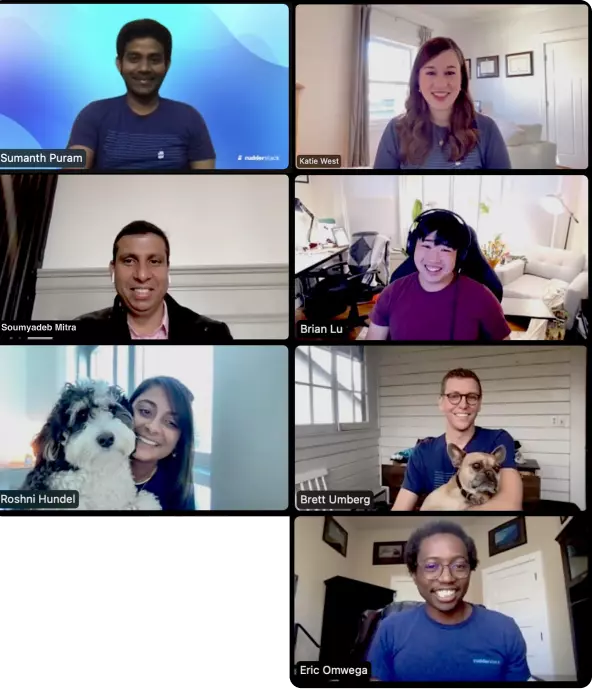
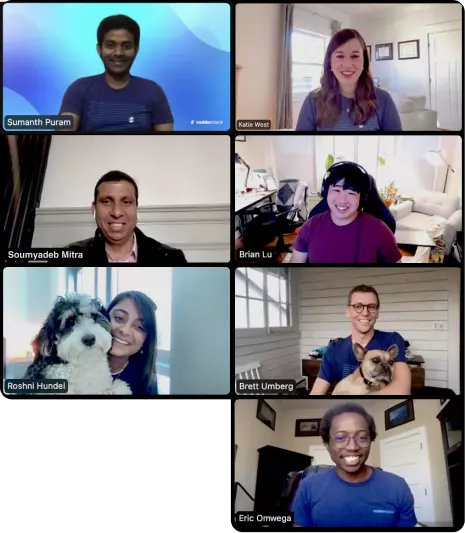
Updated leadership struture

diff --git a/src/components/leadership.js b/src/components/leadership.js
@@ -6,10 +6,11 @@ import '../css/about.css'
 const Leadership = props => {
   return (
     <section className="leadership relative pt-32 pb-16">
-      <div className="flex relative flex-col-reverse lg:flex-row">
+      <div className="max-w-6xl mx-auto leadership-wrapper">
+      <div className="flex relative flex-col-reverse lg:flex-row justify-between">
         <div className="left-group-image">
           <StaticImage
-            src="../images/leadership-group1.webp"
+            src="../images/leadership-group1.png"
             alt="leadership-group1"
           />
         </div>
@@ -26,9 +27,9 @@ const Leadership = props => {
           </div>
         </div>
       </div>
-      <div className="flex xl:-mt-60 justify-center lg:justify-end leadership-img-block lg:ml-auto lg:mr-0 mx-auto">
+      <div className="flex lg:-mt-60 justify-center lg:justify-end leadership-img-block lg:ml-auto lg:mr-0 mx-auto">
         <StaticImage
-          src="../images/leadership-group2.webp"
+          src="../images/leadership-group2.png"
           alt="leadership-investors"
         />
       </div>
@@ -40,13 +41,13 @@ const Leadership = props => {
           </div>
         </div>
         <div className="middle-right-images relative flex justify-end flex-col  lg:flex-row">
-          <div className="middle-right-image-wrapper mr-3 lg:mb-0 mb-3">
+          <div className="middle-right-image-wrapper middle-right-left mr-3 lg:mb-0 mb-3">
             <StaticImage
               src="../images/leadership-group3.webp"
               alt="leadership-investors"
             />
           </div>
-          <div className="middle-right-image-wrapper lg:mb-0 mb-3">
+          <div className="middle-right-image-wrapper middle-right-right lg:mb-0 mb-3">
             <StaticImage
               src="../images/leadership-group4.webp"
               alt="leadership-investors"
@@ -55,12 +56,13 @@ const Leadership = props => {
         </div>
       </div>
       <div className="flex justify-center lg:justify-end">
-        <div className="bottom-image-wrapper xl:-mt-36 leadership-img-block">
+        <div className="bottom-image-wrapper leadership-img-block">
           <StaticImage
             src="../images/leadership-group5.webp"
             alt="leadership-investors"
           />
         </div>
+      </div>
       </div>
     </section>
   )

diff --git a/src/css/about.css b/src/css/about.css
@@ -1,18 +1,22 @@
-/* .left-group-image{
-    position: absolute;
-    left: 0px;
-} */
-.right-side-content{
-    margin-left: calc((100% - 1152px)/2);
-}
-.leadership-img-block{
+.left-group-image{
     max-width: 50%;
 }
+/* .leadership-img-block{
+    max-width: 50%;
+} */
 .middle-content{
     margin-left: calc((100% - 1152px)/2);
 }
 .bottom-image-wrapper{
-    margin-right: 380px;
+    margin-right: 305px;
+    margin-top: -120px;
+    max-width: 450px;
+}
+.middle-right-left{
+    max-width: 330px;
+}
+.middle-right-right{
+    max-width: 294px;
 }
 .timeline-content{
     width: 200px;
@@ -49,27 +53,16 @@
     justify-content: center;
     color: #1C1D61;
 }
-@media only screen and (max-width: 1280px){
-    .bottom-image-wrapper{
-        margin-top: -140px;
-        margin-right: 380px;
-    }
-}
 @media only screen and (max-width: 1200px){
     .join-our-team-wrapper, .about-logos-list{
+        padding: 0px 16px;
+    }
+    .leadership-wrapper{
         padding: 0px 16px;
     }
     .right-side-content{
         margin-left: 0;
         padding-left: 20px;
-    }
-    .middle-content {
-        margin-left: 0;
-        padding-left: 20px;
-    }
-    .leadership-img-block{
-        max-width: calc(100% - 30px);
-        margin: auto;
     }
     .middle-right-image-wrapper img ,
         .left-group-image img,
@@ -89,10 +82,6 @@
         }
         .about-logos-list li{
             max-width: 110px;
-        }
-        .bottom-image-wrapper{
-            margin-top: -140px;
-            margin-right: 380px;
         }
 }
 

diff --git a/src/components/fourCardsWithTitleLeftAligned.js b/src/components/fourCardsWithTitleLeftAligned.js
@@ -6,7 +6,7 @@ import { rudderslabTrackOnClick } from "../utils/common"
 
 const FourCardsWithTitleLeftAligned = props => {
   return (
-    <section className="pb-8 md:pb-24 px-4 md:px-0 pt-20 relative">
+    <section className="px-4 md:px-0 pt-20 relative">
       <div className="max-w-4xl m-auto flex flex-wrap w-full mb-24 flex-col md:text-center">
         {props.title !== "" && (
           <h2 className="text-4xl md:text-5xl font-bold mb-4 text-darkScheme-textPrimary">
